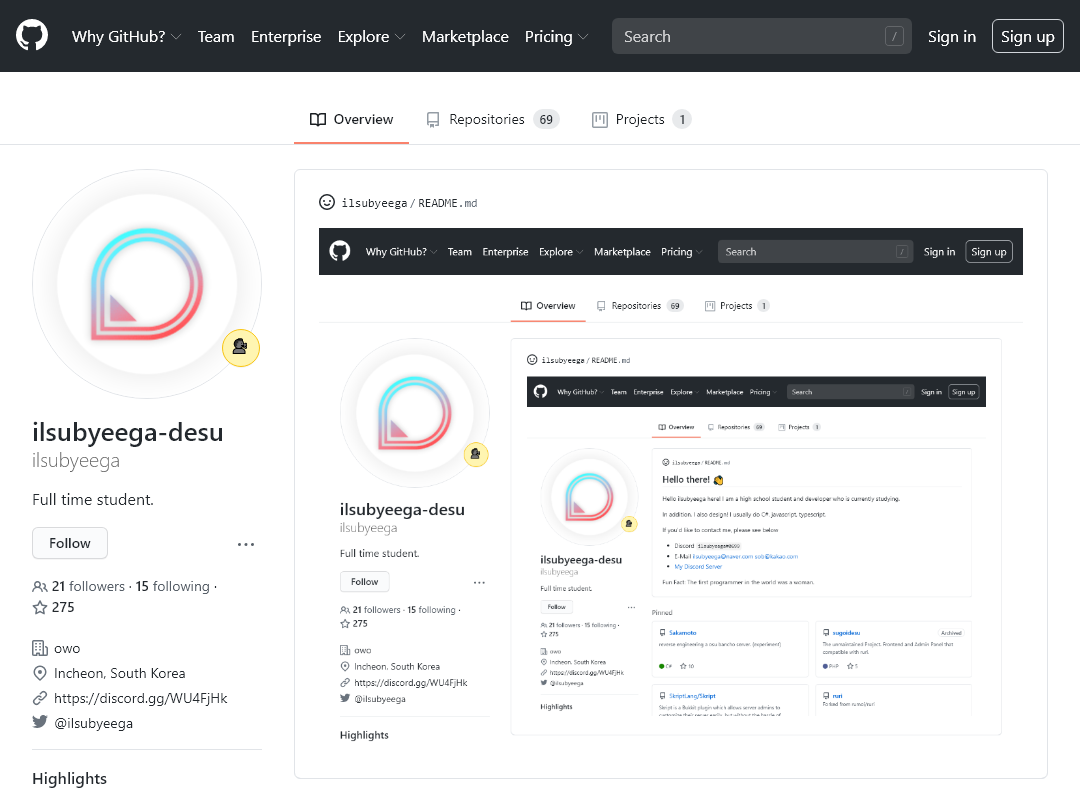
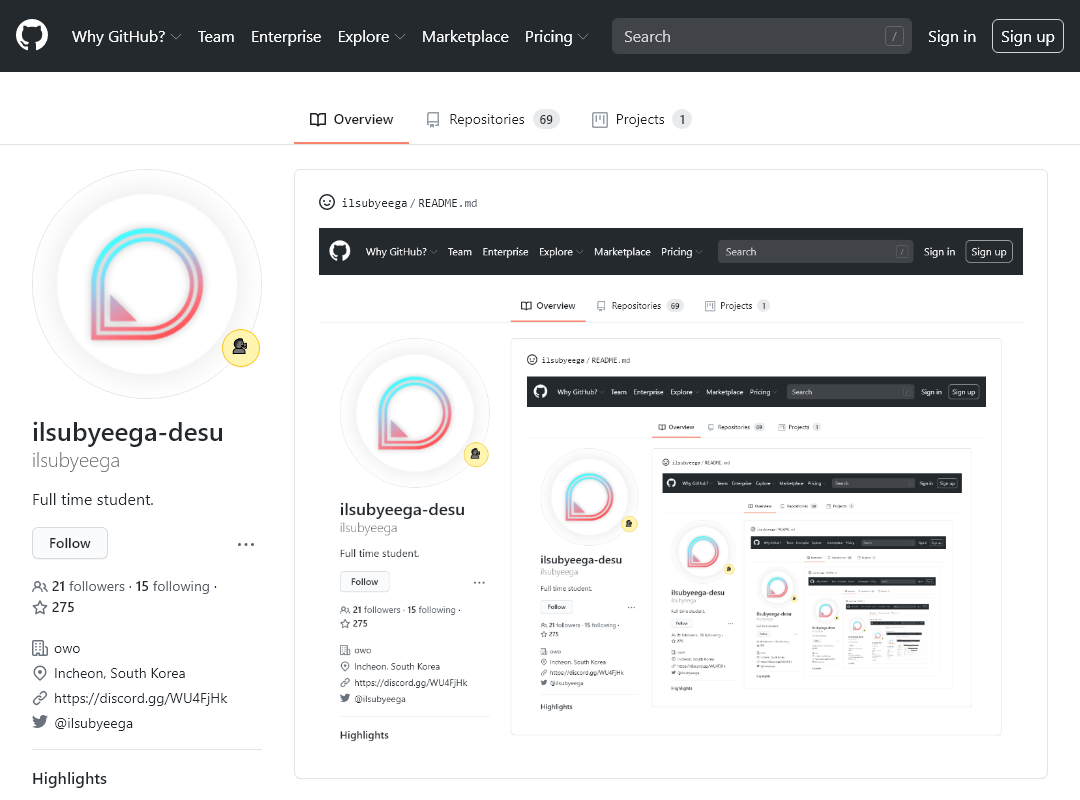
"adds new screenshot at depth 1"

Changed region(s): [[0.6111, 0.5938, 0.9167, 0.9062]]

diff --git a/README.md b/README.md
@@ -1,1 +1,1 @@
-![Woah!](https://github.com/ilsubyeega/ilsubyeega/blob/master/screenshot-2.png)
+![Woah!](https://github.com/ilsubyeega/ilsubyeega/blob/master/screenshot-1.png)
